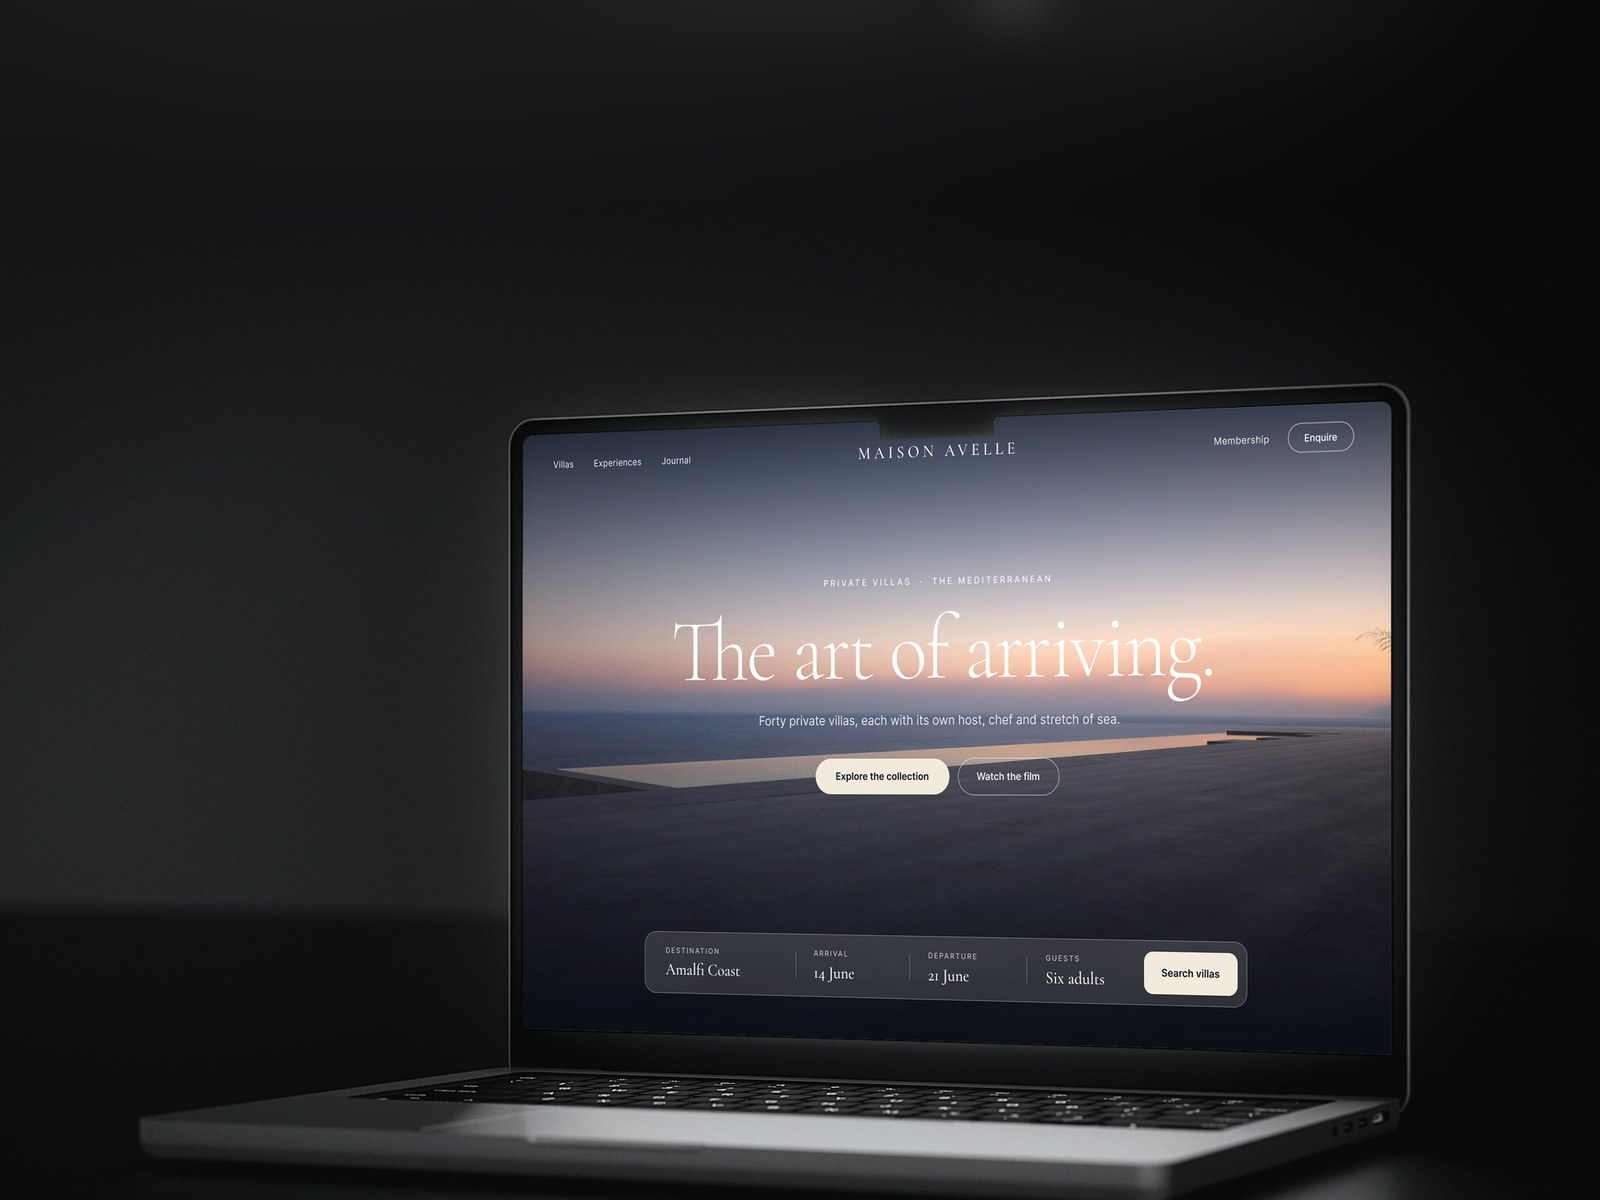
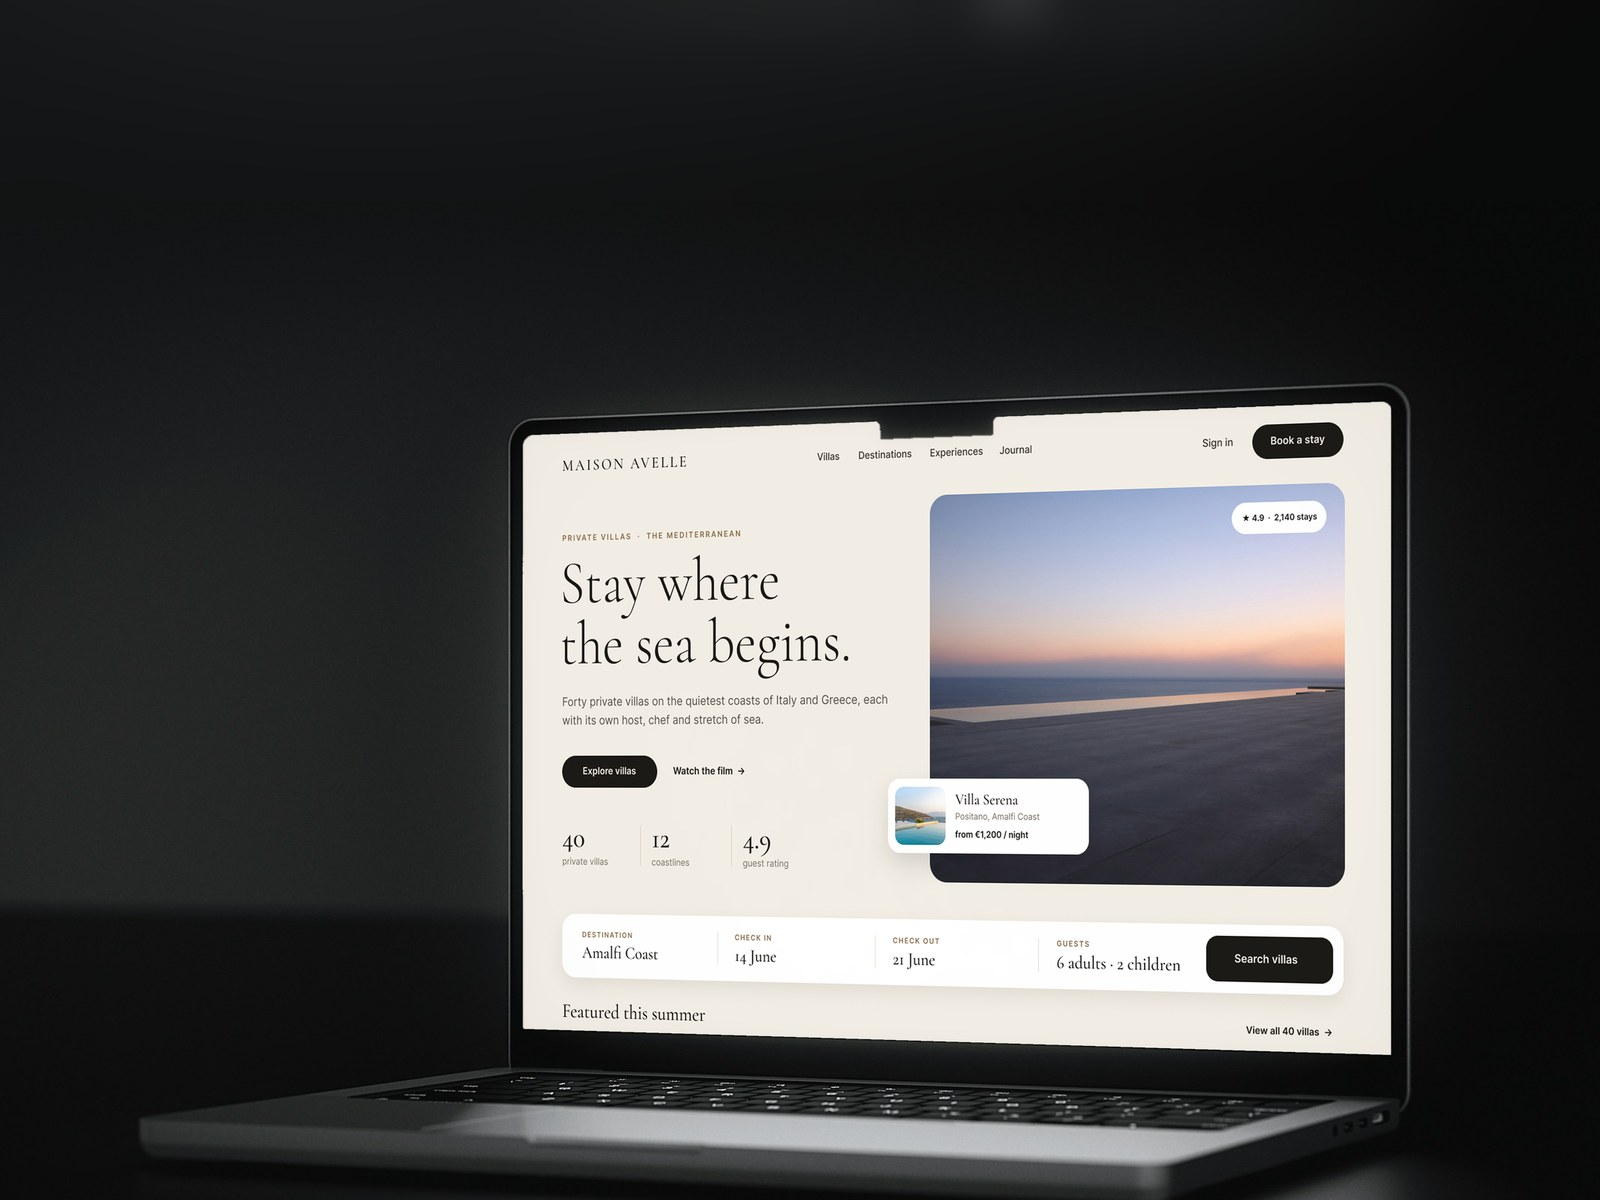
Websites: New websites tile shows a brighter, richer villa home page
Claude-Session: https://claude.ai/code/session_011BdSE2fEeiEv9ZgoYmWAPn

Changed region(s): [[0.3125, 0.3083, 0.875, 0.8942]]

diff --git a/src/content/seed-data.ts b/src/content/seed-data.ts
@@ -139,7 +139,7 @@ export const SERVICES: Service[] = [
         _key: "o1",
         title: "New websites",
         text: "Designed around your offer and built to turn visits into enquiries.",
-        image: img(`${WEB}/tile-new.jpg`, 1600, 1200, "A laptop in a dark studio, its screen lit with a villa rental home page: The art of arriving, over an infinity pool at sunset"),
+        image: img(`${WEB}/tile-new.jpg`, 1600, 1200, "A laptop in a dark studio showing a villa rental home page: Stay where the sea begins, with an infinity pool photo, a villa card and a booking bar"),
       },
       {
         _key: "o2",
